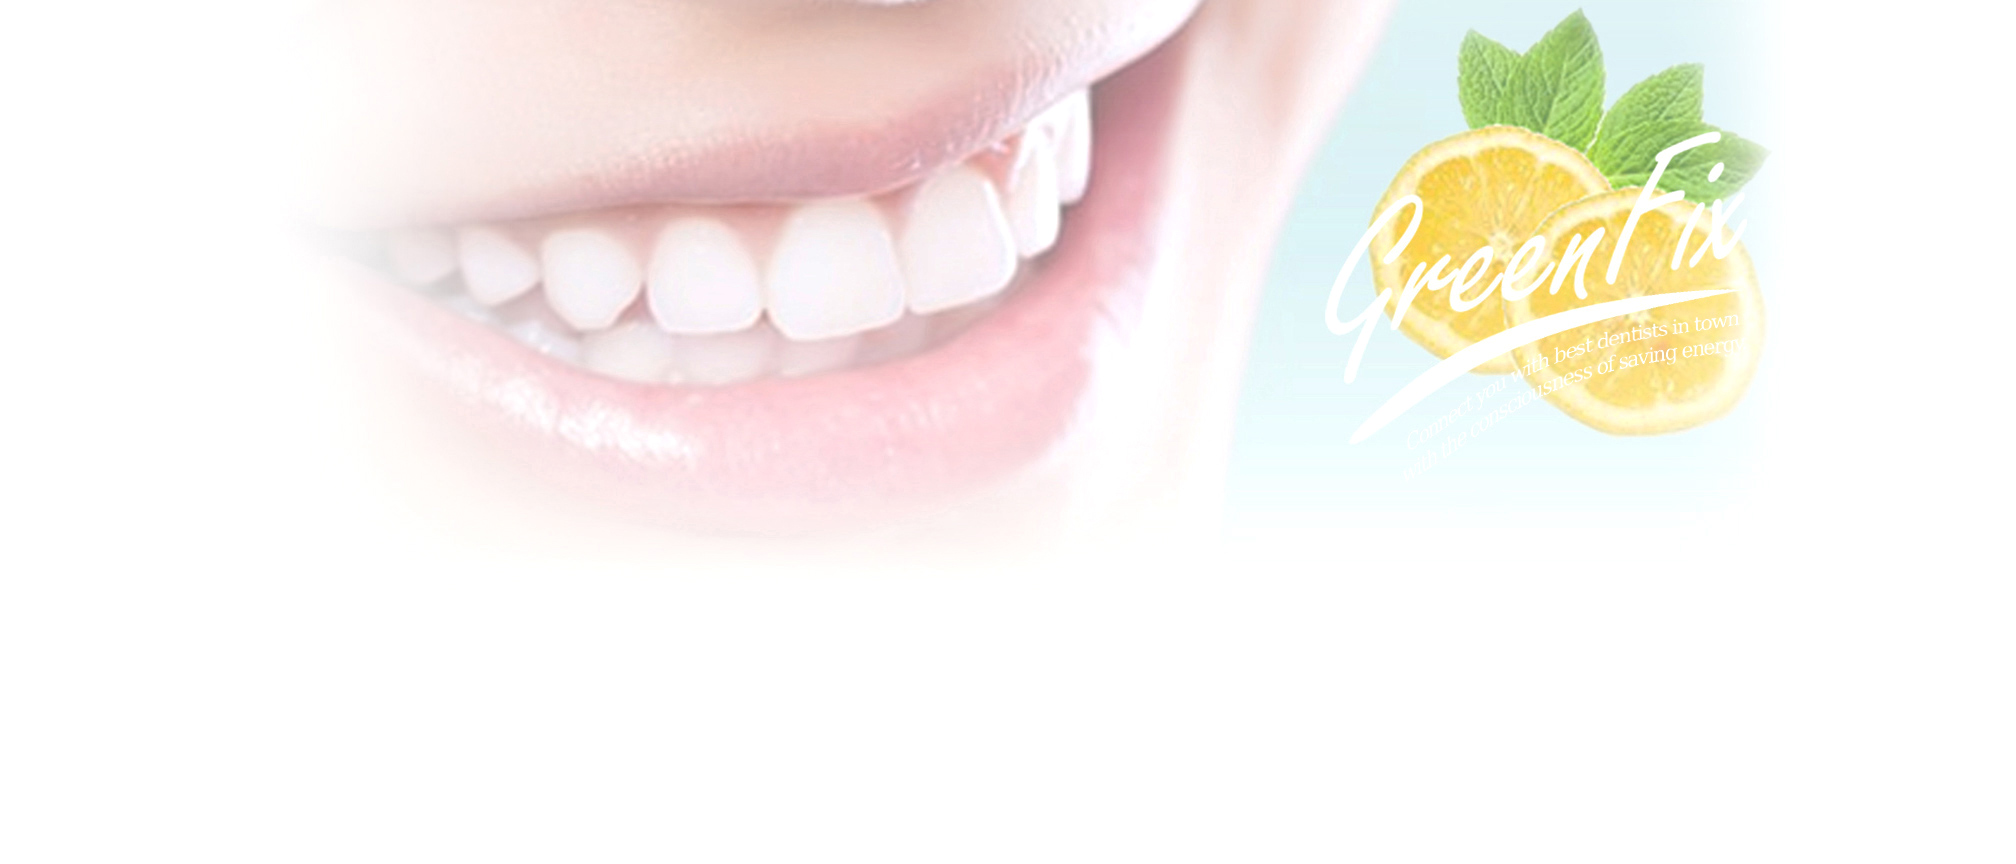
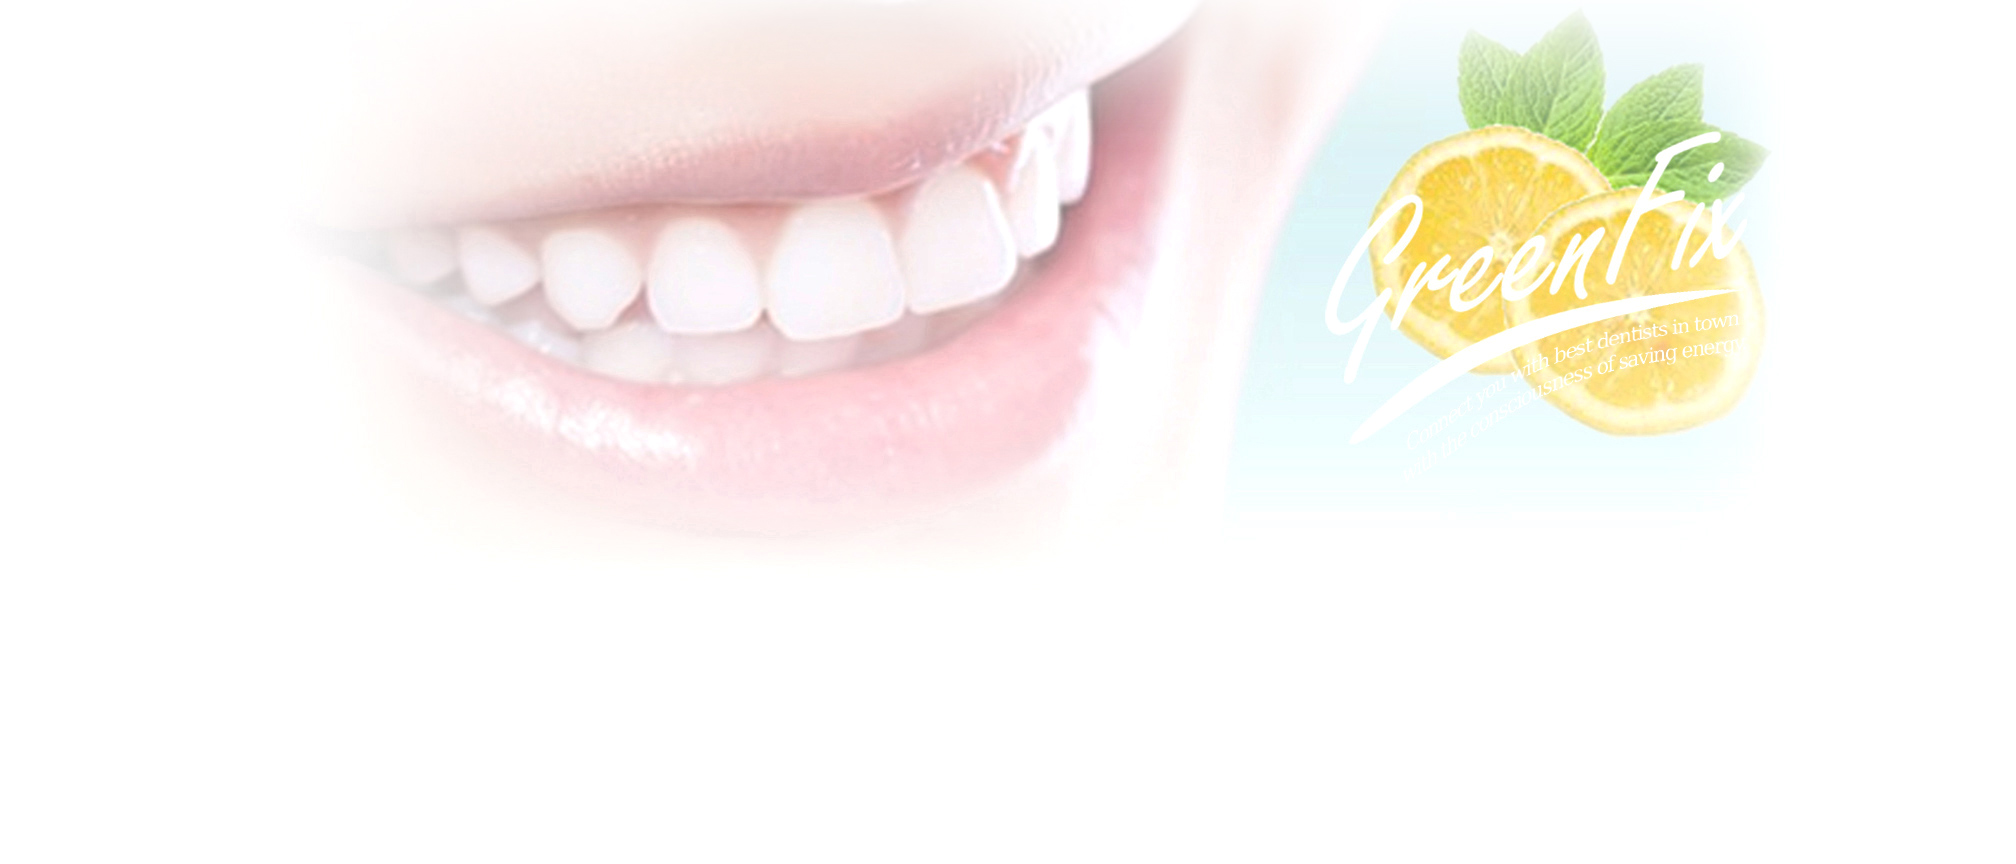
slideshow_added

Changed region(s): [[0.25, 0.0, 0.6562, 0.125], [0.6875, 0.0, 0.8438, 0.1562]]

diff --git a/the_site/index_style.css b/the_site/index_style.css
@@ -13,7 +13,11 @@ div {
 
 }
 
-
+li {	
+	max-width: 100%;
+	width: 100%;
+	
+}
 table {
 	margin-top:39%;
 	position:relative;
@@ -34,7 +38,7 @@ table {
     width: 100%;
 }
 
-#background {
+#background_00 {
 	max-width:100%;
 	position:fixed;
 	width: 100%;
@@ -43,6 +47,120 @@ table {
 
 /********************************/
 
+
+
+#content-slider {
+	max-width:100%;
+	position:fixed;
+	width: 100%;
+	z-index: -1;
+	
+	
+}
+
+
+
+#slider {
+   background: none;
+   border: 5px solid #eaeaea;
+   height: auto;
+   width: 100%;
+   max-width:100%;
+   position:relative;
+   overflow: visible;
+}
+
+
+#mask {
+   overflow: hidden;
+   height: 764px;
+}
+
+
+#slider ul {
+   margin: 0;
+   padding: 0;
+   position: relative;
+}
+
+#slider li {
+   width: 2016px;  /* Width Image */
+   height: 764px; /* Height Image */
+   position: absolute;
+   top: -325px; /* Original Position - Outside of the Slider */
+   list-style: none;
+}
+
+
+#slider li.firstanimation {
+   animation: cycle 15s linear infinite;
+}
+
+#slider li.secondanimation {
+   animation: cycletwo 15s linear infinite;
+}
+
+#slider li.thirdanimation {
+   animation: cyclethree 15s linear infinite;
+}
+
+#slider li.fourthanimation {
+   animation: cyclefour 15s linear infinite;
+}
+
+/* ANIMATION */
+
+@keyframes cycle {
+   0%  { top: 0px; } /* When you start the slide, the first image is already visible */
+   0%  { top: 0px; } /* Original Position */
+   20% { top: 0px; opacity:1; z-index:0; } /* From 4% to 16 % = for 3 seconds the image is visible */
+   26% { top: 325px; opacity: 0; z-index: 0; } /* From 16% to 20% = for 1 second exit image */
+   31% { top: -325px; opacity: 0; z-index: -1; } /* Return to Original Position */
+   92% { top: -325px; opacity: 0; z-index: 0; }
+   96% { top: -325px; opacity: 0; } /* From 96% to 100% = for 1 second enter image*/
+   100%{ top: 0px; opacity: 1; }
+}
+
+@keyframes cycletwo {
+   0%  { top: -325px; opacity: 0; } /* Original Position */
+   20% { top: -325px; opacity: 0; }/* Starts moving after 16% to this position */
+   26% { top: 0px; opacity: 1; }
+   26% { top: 0px; opacity: 1; }  /* From 20% to 24% = for 1 second enter image*/
+   46% { top: 0px; opacity: 1; z-index: 0; }   /* From 24% to 36 % = for 3 seconds the image is visible */
+   52% { top: 325px; opacity: 0; z-index: 0; } /* From 36% to 40% = for 1 second exit image */
+   52% { top: -325px; opacity: 0; z-index: -1; }   /* Return to Original Position */
+   100%{ top: -325px; opacity: 0; z-index: -1; }
+}
+
+@keyframes cyclethree {
+   0%  { top: -325px; opacity: 0; }
+   40% { top: -325px; opacity: 0; }
+   44% { top: 0px; opacity: 1; }
+   48% { top: 0px; opacity: 1; }
+   60% { top: 0px; opacity: 1; }
+   64% { top: 325px; opacity: 0; z-index: 0; }
+   65% { top: -325px; opacity: 0; z-index: -1; }
+   100%{ top: -325px; opacity: 0; z-index: -1; }
+}
+
+@keyframes cyclefour {
+   0%  { top: -325px; opacity: 0; }
+   0% { top: -325px; opacity: 0; }
+   36% { top: 0px; opacity: 0; }
+   40% { top: 0px; opacity: 0; }
+   58% { top: 0px; opacity: 0; }
+   72% { top: -325px; opacity: 0; z-index: 0; }
+   76% { top: 0px; opacity: 1; z-index: -1; }
+   100%{ top: 0px; opacity: 1; z-index: -1; }
+}
+
+
+
+
+
+
+
+/********************************/
 
 
 *,

diff --git a/the_site/index.html b/the_site/index.html
@@ -13,7 +13,27 @@
 <body>
 
 	<div id="container">
-    <div id="background"><img src="web_elements/background.jpg" /></div>
+        <div id="content-slider">
+      <div id="slider">  <!-- Slider container -->
+         <div id="mask">  <!-- Mask -->
+         <ul>
+         <li id="first" class="firstanimation">  <!-- ID for tooltip and class for animation -->
+         <img src="web_elements/background.jpg" alt="Cougar"/>
+         </li>
+         <li id="second" class="secondanimation">
+         <img src="web_elements/background_1.jpg" alt="Lions"/>
+         </li>
+         <li id="third" class="thirdanimation">
+         <img src="web_elements/background_2.jpg" alt="Snowalker"/>
+         </li>
+         <li id="third" class="fourthanimation">
+         <img src="web_elements/background_00.jpg" alt="Msg"/>
+         </li>
+         </ul>
+         </div>  <!-- End Mask -->
+         <div class="progress-bar"></div>  <!-- Progress Bar -->
+      </div>  <!-- End Slider Container -->
+    </div>
     <table>
     <tr>
     <th>
